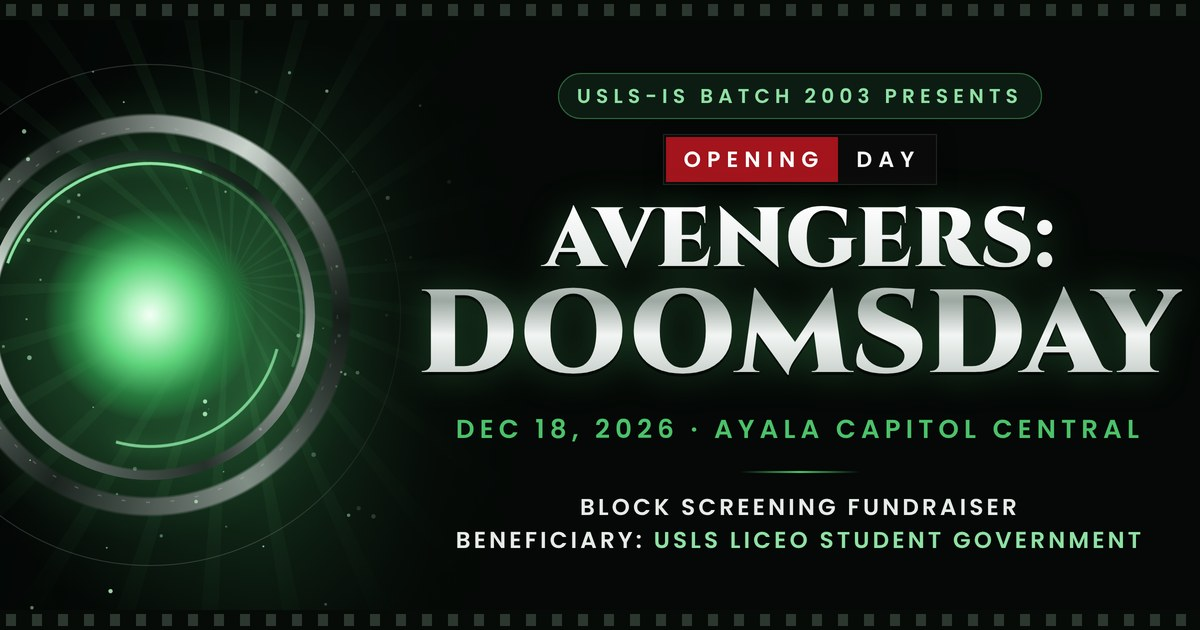
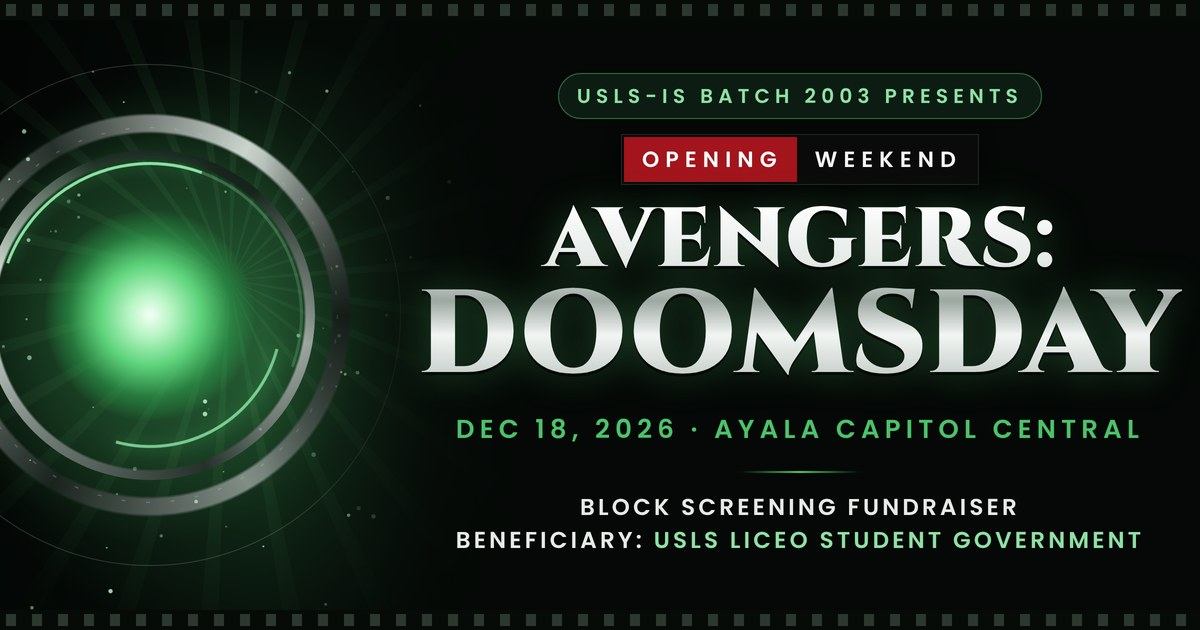
Doomsday: opening weekend instead of opening day

Changed region(s): [[0.4933, 0.2111, 0.8017, 0.3016]]

diff --git a/frontend/src/pages/MovieScreening.js b/frontend/src/pages/MovieScreening.js
@@ -510,9 +510,9 @@ export default function MovieScreening() {
           {/* Print-only header */}
           <div className="ms-print-header">
             <div className="ms-print-brand">USLS-IS BATCH 2003 · BLOCK SCREENING</div>
-            <div className="ms-opening-tag" aria-label="Opening day">
+            <div className="ms-opening-tag" aria-label="Opening weekend">
               <span>OPENING</span>
-              <span>DAY</span>
+              <span>WEEKEND</span>
             </div>
             <div className="ms-print-title">{event.title}</div>
             <div className="ms-print-meta">{formatEventDate(event.event_date)} · {event.venue}</div>
@@ -607,9 +607,9 @@ export default function MovieScreening() {
           <div className="ms-hero-glow"></div>
           <div className="ms-hero-content">
             <div className="ms-pill">USLS-IS BATCH 2003 · BLOCK SCREENING</div>
-            <div className="ms-opening-tag" aria-label="Opening day">
+            <div className="ms-opening-tag" aria-label="Opening weekend">
               <span>OPENING</span>
-              <span>DAY</span>
+              <span>WEEKEND</span>
             </div>
             <div className="ms-title-wrap">
               <div className="ms-title-bar"></div>

diff --git a/frontend/public/index.html b/frontend/public/index.html
@@ -10,7 +10,7 @@
   <meta property="og:image" content="https://thegoldenbatch2003.com/images/doomsday-link-preview.jpg" />
   <meta property="og:image:width" content="1200" />
   <meta property="og:image:height" content="630" />
-  <meta property="og:image:alt" content="USLS-IS Batch 2003 presents Avengers: Doomsday, opening day block screening fundraiser on December 18, 2026 at Ayala Malls Capitol Central. Beneficiary: USLS Liceo Student Government." />
+  <meta property="og:image:alt" content="USLS-IS Batch 2003 presents Avengers: Doomsday, opening weekend block screening fundraiser on December 18, 2026 at Ayala Malls Capitol Central. Beneficiary: USLS Liceo Student Government." />
   <meta property="og:type" content="website" />
   <meta name="twitter:card" content="summary_large_image" />
   <meta name="twitter:image" content="https://thegoldenbatch2003.com/images/doomsday-link-preview.jpg" />

diff --git a/backend/utils/email.js b/backend/utils/email.js
@@ -282,7 +282,7 @@ const sendScreeningConfirmationEmail = async (details) => {
 <!-- Header Image -->
 <tr>
 <td style="padding:0;">
-<img src="https://thegoldenbatch2003.com/images/doomsday-email-header.jpg" alt="USLS-IS Golden Batch 2003 presents Avengers: Doomsday, an opening day block screening fundraiser. Beneficiary: USLS Liceo Student Government." width="600" height="240" style="display:block;width:100%;max-width:600px;height:auto;border:0;">
+<img src="https://thegoldenbatch2003.com/images/doomsday-email-header.jpg" alt="USLS-IS Golden Batch 2003 presents Avengers: Doomsday, an opening weekend block screening fundraiser. Beneficiary: USLS Liceo Student Government." width="600" height="240" style="display:block;width:100%;max-width:600px;height:auto;border:0;">
 </td>
 </tr>
 <!-- Body -->
